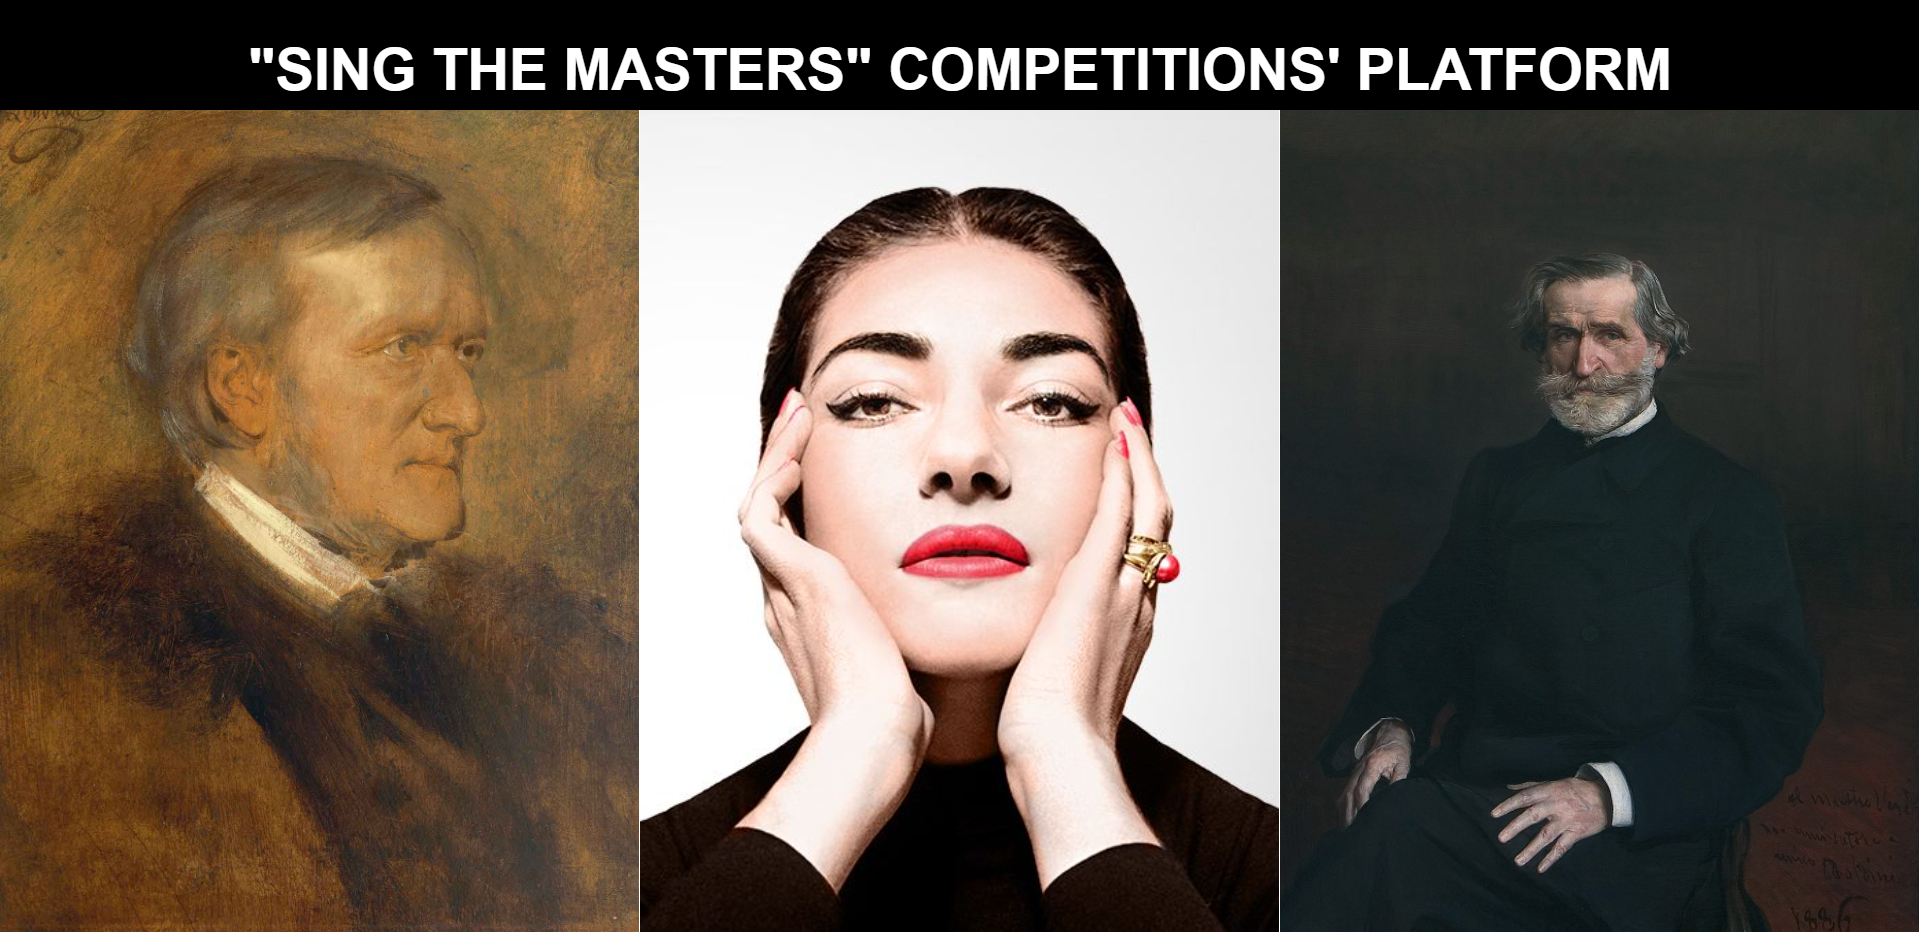
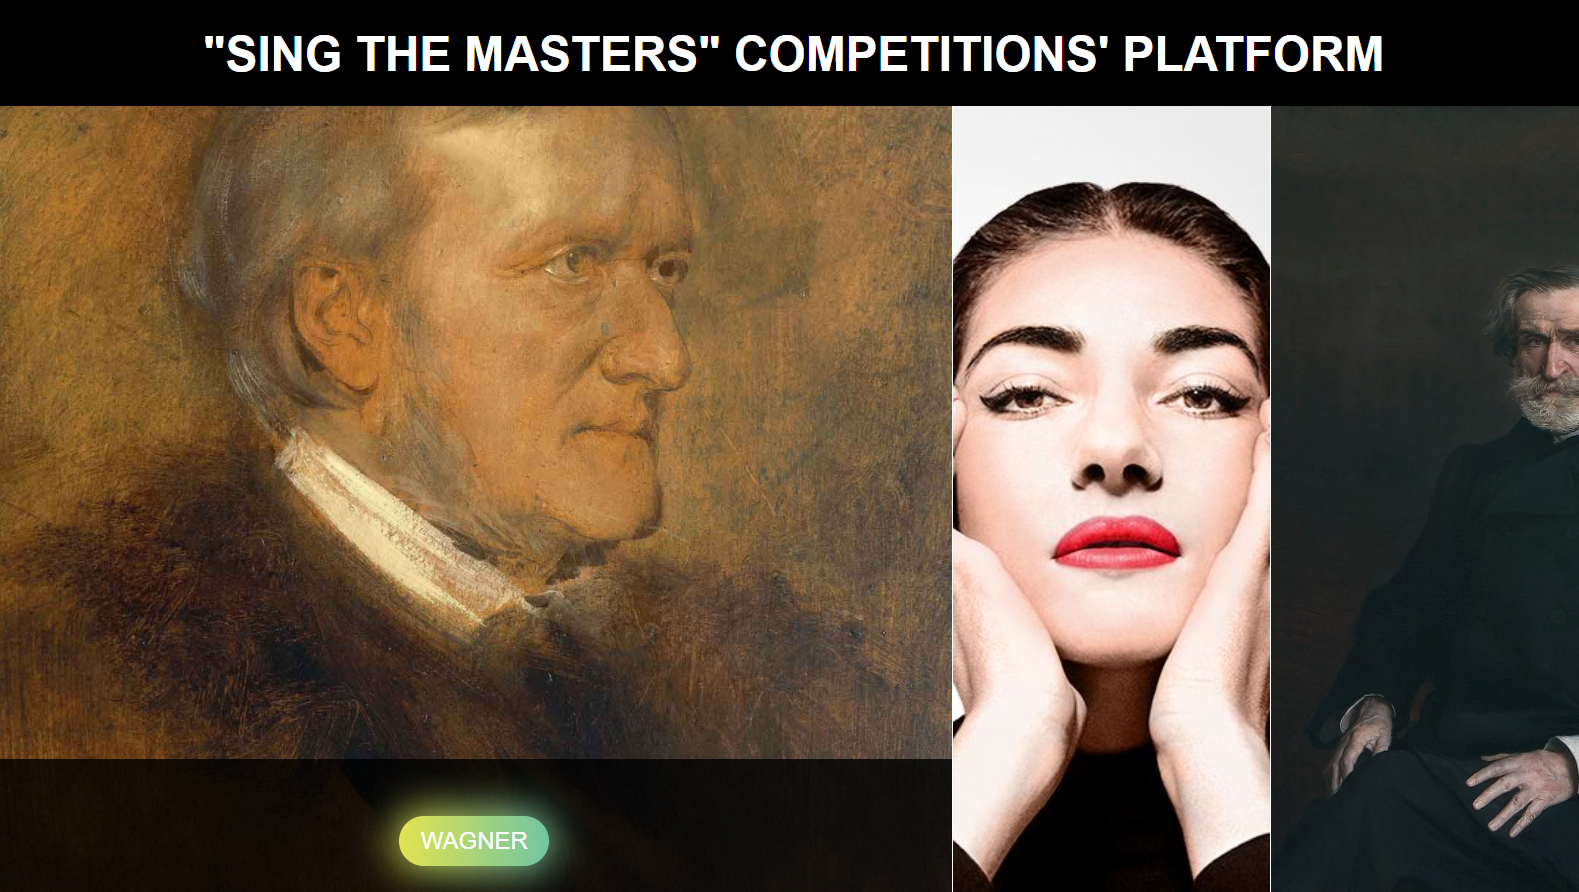
Final

diff --git a/main.js b/main.js
@@ -9,9 +9,65 @@ navToggle();
 
 
 const popUpInfo = {
-  title: ['Offenbachgp','Spoiled Eggs'],
-  image: ['images/offenbach.png','images/spoiledeggs.png'],
-  text: ['Lorem1','Lorem2']
+  title: ['Offenbachgp','Spoiled Eggs','Classica Tournée','Opera Pathway','Sing the masters','Callas Prize','Singing Portfolio'],
+  badges: [
+    '<li>html</li><li>css</li><li>php</li><li>mysql</li><li>javascript</li>',
+    '<li>html</li><li>css</li><li>php</li><li>mysql</li><li>javascript</li>',
+    '<li>html</li><li>css</li><li>javascript</li>',
+    '<li>html</li><li>css</li><li>javascript</li>',
+    '<li>html</li><li>css</li><li>javascript</li>',
+    '<li>html</li><li>css</li><li>javascript</li>',
+    '<li>html</li><li>css</li>',
+
+  ],
+  image: [
+    '<img src="images/offenbach.png" alt="Offenbach Grand Prix Homepage">',
+    '<img src="images/spoiledeggsdesk.png" alt="Offenbach Grand Prix Homepage">',
+    '<img src="images/classicatourneedesk.png" alt="Offenbach Grand Prix Homepage">',
+    '<img src="images/operapathwaydesk.png" alt="Offenbach Grand Prix Homepage">',
+    '<img src="images/singthemasters.png" alt="Offenbach Grand Prix Homepage">',
+    '<img src="images/callasprizedesk.png" alt="Offenbach Grand Prix Homepage">',
+    '<img src="images/modinosdesk.png" alt="Offenbach Grand Prix Homepage">',
+
+  ],
+  text: [
+    'A fully online opera-singing competition, where the audience can comment and applaud, and where the jury comments in full view of the audience.  Automated application process, which includes video and biog upload, as well as an automatically generated contract in the end.',
+  
+    'Spoiled Eggs was the original template for 2 projects and those two projects were used to promote Spoiled Eggs.  It is a review site for opera, where people can rage click "applause" or "throwing eggs" and of course comment.',
+
+    'A site meant as an extension of Opera Classica Europa`s Inthega classifieds, which is a platform intended on facilitating touring in Germany.',
+
+    "The advertisement and application process for Opera Classica Europa's Opera Studio program, called the Opera Pathway.",
+
+    "A template intended at hosting music competitions, mostly those that were dedicated to a composer.  The Offenbach GP was such a competition later in time.",
+
+    "The advertisement and application process to enter the Callas Prize competition, which was supposed to take place at the Alte Oper Frankfurt for the finals.  Unfortunately cancelled due to COVID.",
+    
+    "My personal singing portfolio and also the first site I ever coded.  In it's initial form it was merely a list, but later I created an interesting, albeit somewhat glitchy, navbar system."
+  
+  ],
+
+  liveButton: [
+    '<a href="https://www.offenbachgp.com/" rel=”noopener”>See Live <img src="images/liveIcon.png" alt="Live Icon"></a>',
+    '<a href="https://spoiledeggs.eu5.org/" rel=”noopener”>See Live <img src="images/liveIcon.png" alt="Live Icon"></a>',
+    '<a href="#" rel=”noopener”>See Live <img src="images/liveIcon.png" alt="Live Icon"></a>',
+    '<a href="#" rel=”noopener”>See Live <img src="images/liveIcon.png" alt="Live Icon"></a>',
+    '<a href="#" rel=”noopener”>See Live <img src="images/liveIcon.png" alt="Live Icon"></a>',
+    '<a href="#" rel=”noopener”>See Live <img src="images/liveIcon.png" alt="Live Icon"></a>',
+    '<a href="https://philipmodinos.ueuo.com" rel=”noopener”>See Live <img src="images/liveIcon.png" alt="Live Icon"></a>'   
+
+  ],
+
+  sourceButton: [
+    '<a href="#" rel=”noopener”>See Source <img src="images/gitIcon.png" alt="Source Icon"></a>',
+    '<a href="#" rel=”noopener”>See Source <img src="images/gitIcon.png" alt="Source Icon"></a>',
+    '<a href="#" rel=”noopener”>See Source <img src="images/gitIcon.png" alt="Source Icon"></a>',
+    '<a href="#" rel=”noopener”>See Source <img src="images/gitIcon.png" alt="Source Icon"></a>',
+    '<a href="#" rel=”noopener”>See Source <img src="images/gitIcon.png" alt="Source Icon"></a>',
+    '<a href="#" rel=”noopener”>See Source <img src="images/gitIcon.png" alt="Source Icon"></a>',
+    '<a href="#" rel=”noopener”>See Source <img src="images/gitIcon.png" alt="Source Icon"></a>'
+  ]
+
 };
 
 function toggle(arrayNumber){
@@ -19,7 +75,12 @@ function toggle(arrayNumber){
   blur.classList.toggle('active');
   var blur = document.getElementById('popUp');
   blur.classList.toggle('active');
-  
+
   document.getElementById('title').innerHTML = popUpInfo.title[arrayNumber];
+  document.getElementById('img').innerHTML = popUpInfo.image[arrayNumber];
+  document.getElementById('badges').innerHTML = popUpInfo.badges[arrayNumber];
+  document.getElementById('text').innerHTML = popUpInfo.text[arrayNumber];
+  document.getElementById('live').innerHTML = popUpInfo.liveButton[arrayNumber];
+  document.getElementById('source').innerHTML = popUpInfo.sourceButton[arrayNumber];
 }
 

diff --git a/index.html b/index.html
@@ -77,19 +77,13 @@
     
     <h3 id="title"></h3>
     
-    <ul id="badges">
-        <li>html</li>
-        <li>css</li>
-        <li>javascript</li>
-    </ul>
-    <div class="img">
-        <img src="images/offenbach.png" alt="Offenbach Grand Prix Homepage">
-    </div>
+    <ul id="badges"></ul>
+    <div class="img" id="img"> </div>
     <div class="text">
-        <p>Lorem Ipsum is simply dummy text of the printing and typesetting industry. Lorem Ipsum has been the industry's standard dummy text ever since the 1500s, when an unknown printer took a galley of type and scrambled it 1960s with the releaLorem Ipsum is simply dummy text of the printing and typesetting industry. Lorem Ipsum has been the industry's standard dummy text ever since the 1500s, when an unknown printer took a galley of type and scrambled it 1960s with the releax map lapora verita.</p>
+        <p id="text"> </p>
         <ul>
-            <li><a href="https://www.offenbachgp.com/" rel=”noopener”>See Live <img src="images/liveIcon.png" alt="Live Icon"></a></li>
-            <li><a href="#" rel=”noopener”>See Source <img src="images/gitIcon.png" alt="Git Icon"></a></li>
+            <li id="live"></li>
+            <li id="source"><a href="#" rel=”noopener”>See Source <img src="images/gitIcon.png" alt="Git Icon"></a></li>
         </ul>
     </div>
     
@@ -142,7 +136,7 @@
             </div></a>
         </div>
         <div class="site site2">
-         <a href="#portfolio" onclick="toggle()"><div class="greyout">
+         <a href="#portfolio" onclick="toggle(2)"><div class="greyout">
                 <div class="description">
                     <div class="title">Classica Tournée</div>
                     <p class="text">A site meant as an extension of Opera Classica Europa's Inthega classifieds, which is a platform intended on facilitating touring in Germany.</p>
@@ -154,11 +148,11 @@
                 </ul>
             </div>
             <div class="buttondecor">
-                <p>Not Active</p>
+                <p>See Project</p>
             </div></a>
         </div>
         <div class="site site3">
-         <a href="#portfolio" onclick="toggle()"><div class="greyout">
+         <a href="#portfolio" onclick="toggle(3)"><div class="greyout">
                 <div class="description">
                     <div class="title">Opera Pathway</div>
                     <p class="text">The advertisement and application process for Opera Classica Europa's Opera Studio program, called the Opera Pathway.</p>
@@ -170,11 +164,11 @@
                 </ul>
             </div>
             <div class="buttondecor">
-                <p>Not Active</p>
+                <p>See Project</p>
             </div></a>
         </div>
         <div class="site site4">
-         <a href="#portfolio" onclick="toggle()"><div class="greyout">
+         <a href="#portfolio" onclick="toggle(4)"><div class="greyout">
                 <div class="description">
                     <div class="title">Sing the masters</div>
                     <p class="text">A template intended at hosting music competitions, mostly those that were dedicated to a composer.  The Offenbach GP was such a competition later in time.</p>
@@ -186,11 +180,11 @@
                 </ul>
             </div>
             <div class="buttondecor">
-                <p>Not Active</p>
+                <p>See Project</p>
             </div></a>
         </div>
         <div class="site site5">
-         <a href="#portfolio" onclick="toggle()"><div class="greyout">
+         <a href="#portfolio" onclick="toggle(5)"><div class="greyout">
                 <div class="description">
                     <div class="title">Callas Prize</div>
                     <p class="text">The advertisement and application process to enter the Callas Prize competition, which was supposed to take place at the Alte Oper Frankfurt for the finals.  Unfortunately cancelled due to COVID.</p>
@@ -202,11 +196,11 @@
                 </ul>
             </div>
             <div class="buttondecor">
-                <p>Not Active</p>
+                <p>See Project</p>
             </div></a>
         </div>
         <div class="site site6">
-         <a href="#portfolio" onclick="toggle()"><div class="greyout">
+         <a href="#portfolio" onclick="toggle(6)"><div class="greyout">
                 <div class="description">
                     <div class="title">Singing Portfolio</div>
                     <p class="text">My personal singing portfolio and also the first site I ever coded.  In it's initial form it was merely a list, but later I created an interesting, albeit somewhat glitchy, navbar system.</p>

diff --git a/index.css b/index.css
@@ -644,13 +644,14 @@ header li a:hover {
 
 #popUp.active ul {
   display: flex;
+  flex-wrap: wrap;
   list-style-type: none;
   padding: 0;
 }
 
 #popUp.active ul li {
   padding: 5px 20px;
-  margin: -20px 10px 0 0;
+  margin: 9px 10px 0 0;
   border: 1px solid #3c3a39;
 }
 
